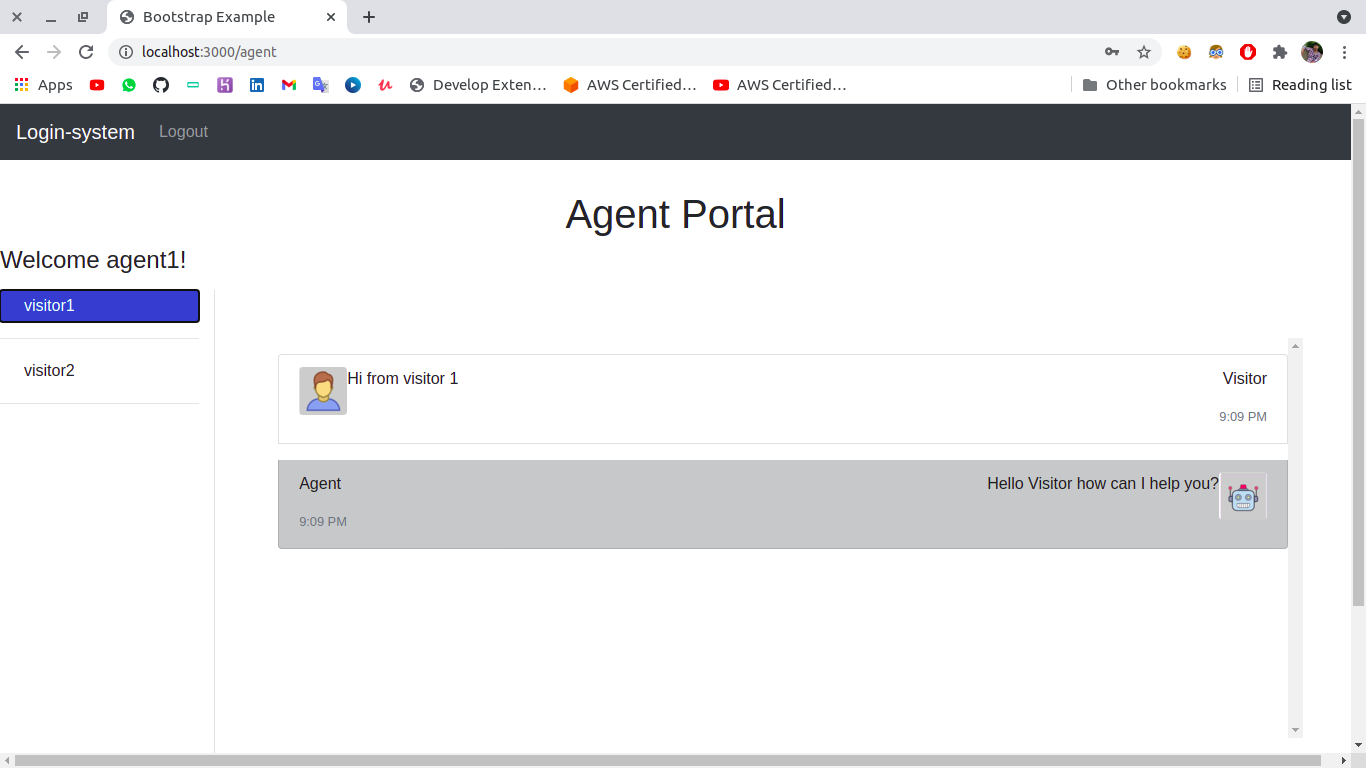
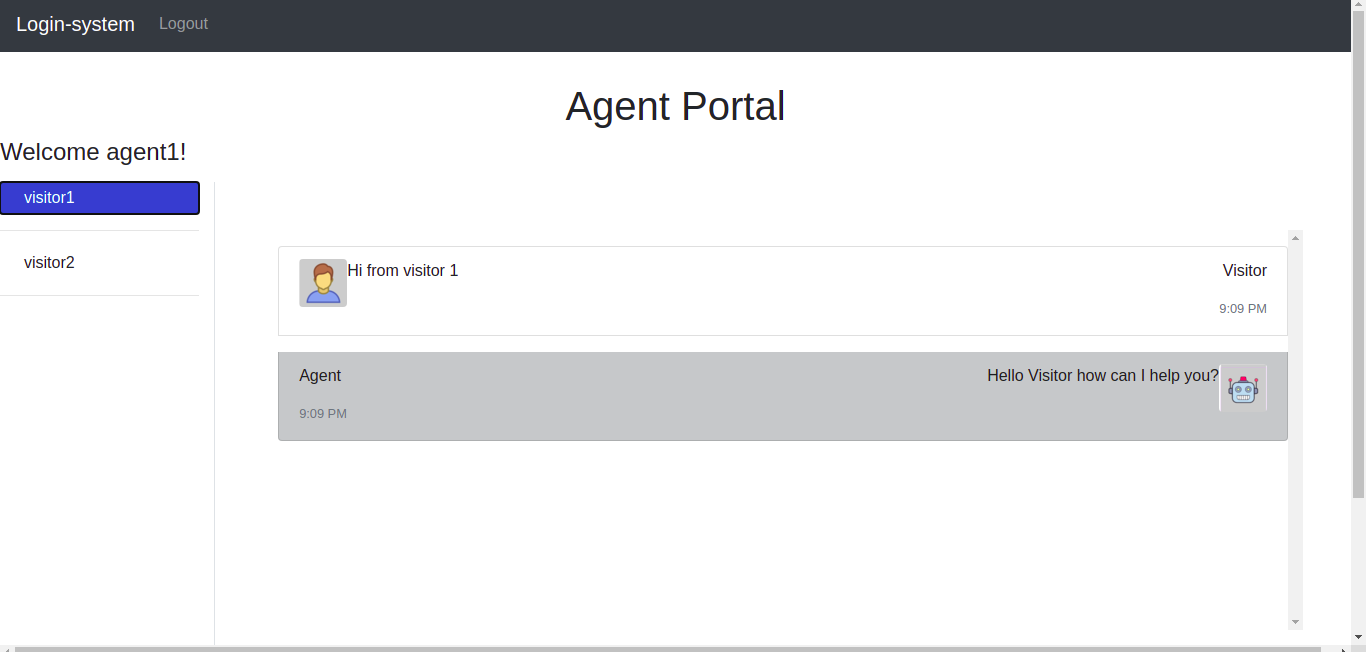
corrected images

diff --git a/README.md b/README.md
@@ -4,7 +4,7 @@
 
 A Realtime Inquiry portal built on **NodeJS**  with **MySQL** database backend to chat with clients/Agents  in realtime and ask any inquiry related to anything built using **websockets** without using any **external libraries** for front end.
 
-<kbd>![preview](preview/preview.gif?raw=true " ")</kbd>
+<kbd>![preview](preview/preivew.gif?raw=true " ")</kbd>
 
 ### Agent Portal :
 <kbd>![preview](preview/agent.png?raw=true " ")</kbd>
